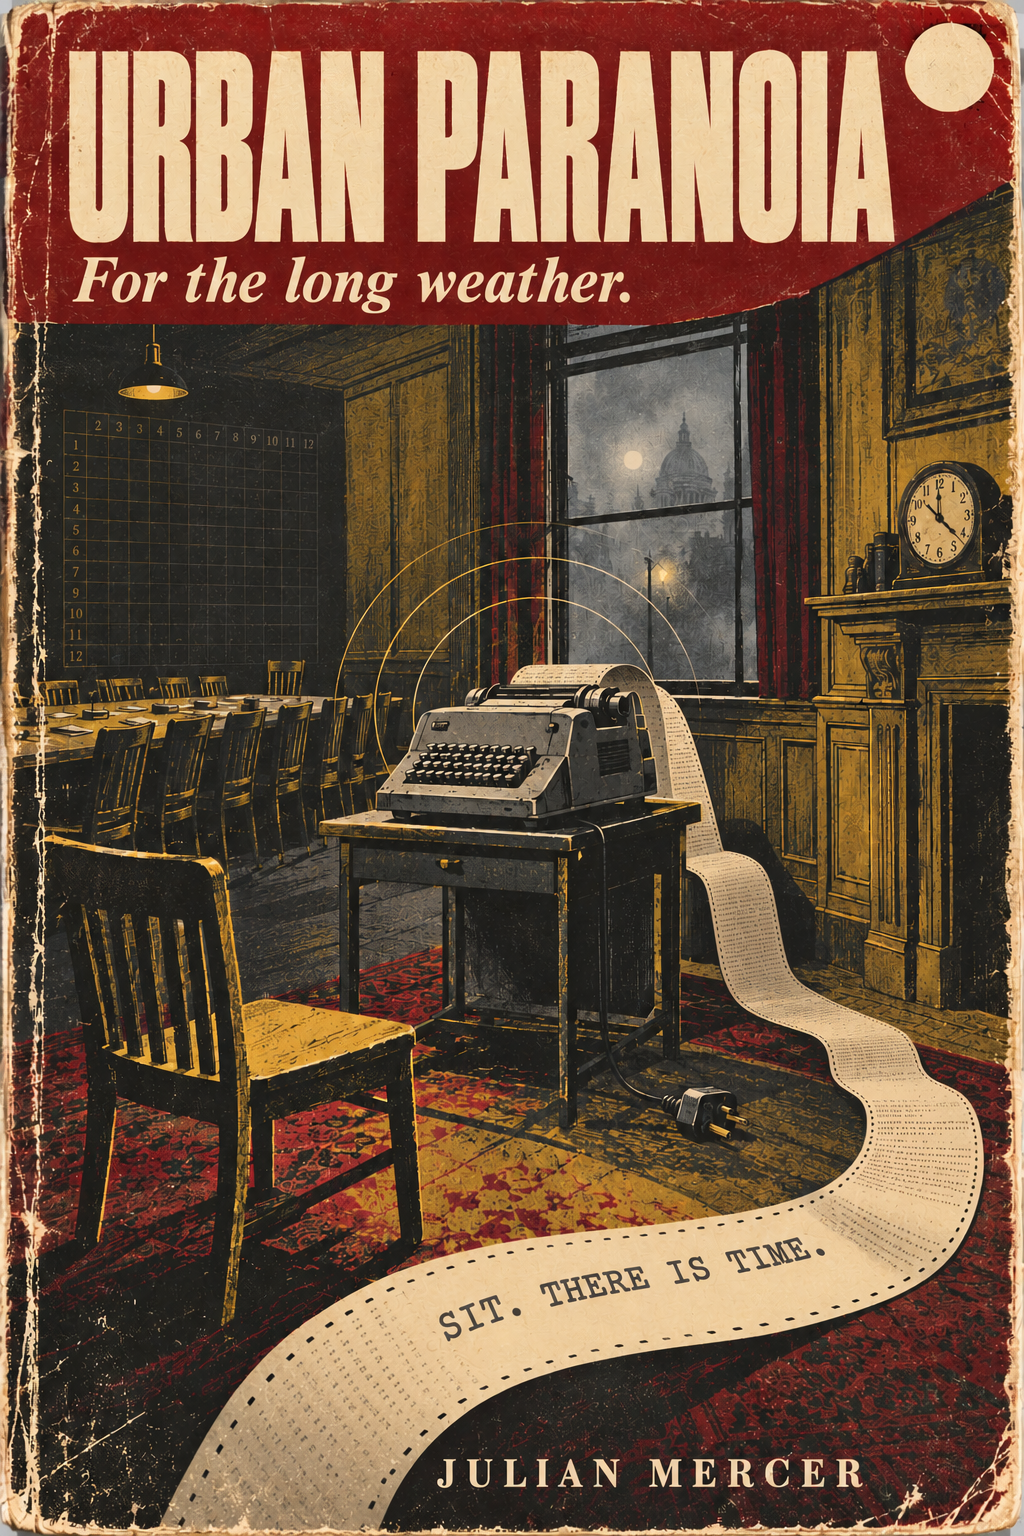
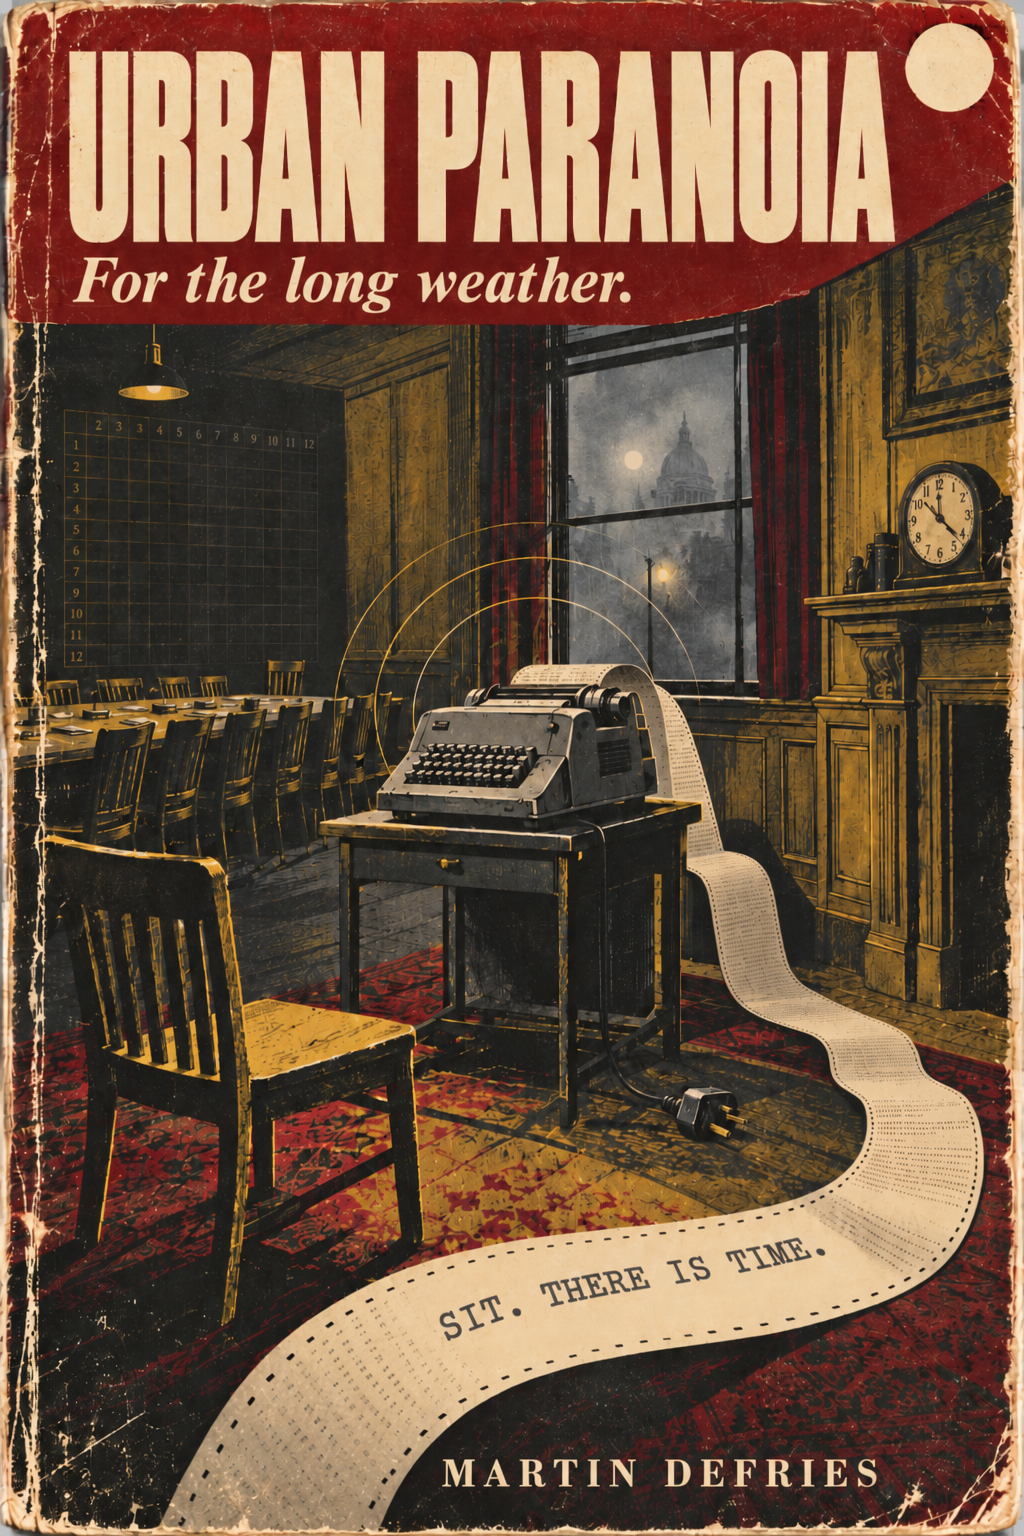
Change pen name to Martin Defries
Replace Julian Mercer across the README, synopsis, chapters 1-2 and the
pre-launch checklist, and rebuild both chapter PDFs. The checklist
records why the Mercer names were dropped (existing thriller heroes).

diff --git a/campaign/prelaunch-checklist.md b/campaign/prelaunch-checklist.md
@@ -23,7 +23,7 @@ status: live — nothing goes public until every box in sections A–D is ticked
   - [ ] Clearfell (first check 25 Oct 2026: no real group found)
   - [ ] Frostline (first check 25 Oct 2026: no real group found)
 - [ ] Rename anything that matches a real organisation or place. Update the bible and all content in the same change.
-- [ ] **Pen name "Julian Mercer":** check it doesn't clash with an established author, and secure matching domain and social handles before launch.
+- [ ] **Pen name "Martin Defries":** first check 25 Oct 2026 found no author, character or public figure of this name, and `martindefries.com` appeared unregistered. Secure the domain and matching social handles before launch. *(Earlier choices "Julian Mercer" and "Philip Mercer" were dropped: both are heroes of existing thriller series, by G.K. Parks and Jack Du Brul. "Martin Defrese" was a misspelling.)*
 - [ ] **Public figures** ([public-figures.md](../bible/public-figures.md)): check Alistair Brennock, Paul Reddaway, Marcus Leyne, Elena Strand, Tom Garrow, Sasha Rook, Wade Callister, Imogen Hale, Jaz Okonkwo-Bell and Rosa Achterberg against real politicians, activists and public figures. (First check, 25 Oct 2026: no matches found. A past MP was surnamed Garrow and a Swedish politician is named Thomas Strand; neither shares a full name.)
 - [ ] Check character names: no prominent real people share the full names Nell Okafor-Reyes, Hollis Crane, Ruth or Marguerite Aldane, Danny Kessler, Teo Brandt, Emmanuel Okafor, Jordan Pryce, Jack Prentice. (Note: "Jordan Pryce" is close to the real actor Jonathan Pryce, who must never be referenced. The adult-film performer the alias comes from is fictional and is never named as or linked to a real person.)
 - [ ] **Legal review** of the whole campaign concept, especially:

diff --git a/README.md b/README.md
@@ -1,6 +1,6 @@
 # Urban Paranoia
 
-*A novel by **Julian Mercer** (pen name).*
+*A novel by **Martin Defries** (pen name).*
 
 A fictional transmedia property (novel, audio drama, and later film and comics), launched through an alternate reality game (ARG). The ARG gives audiences an *"is this real?"* experience and then leads them into the book.
 

diff --git a/book/chapters/02-contribution-to-the-transition.md b/book/chapters/02-contribution-to-the-transition.md
@@ -1,6 +1,6 @@
 ---
 medium: novel
-author: Julian Mercer (pen name)
+author: Martin Defries (pen name)
 chapter: 2
 title: "Contribution to the Transition"
 setting: Coyle Brothers Haulage, head office and archive; Nell's flat. Saturday 17 May 2025 – Monday 20 April 2026 (Day 23,199)

diff --git a/book/chapters/01-day-zero.md b/book/chapters/01-day-zero.md
@@ -1,6 +1,6 @@
 ---
 medium: novel
-author: Julian Mercer (pen name)
+author: Martin Defries (pen name)
 chapter: 1
 title: "Day Zero"
 setting: Harrowgate House, Saturday 13 – Sunday 14 October 1962

diff --git a/book/synopsis.md b/book/synopsis.md
@@ -6,7 +6,7 @@ canon-refs: [bible/the-lodge, bible/the-tenants, bible/deep-time, bible/the-ladd
 
 # Urban Paranoia: synopsis
 
-*by Julian Mercer*
+*by Martin Defries*
 
 *For the long weather.*
 
